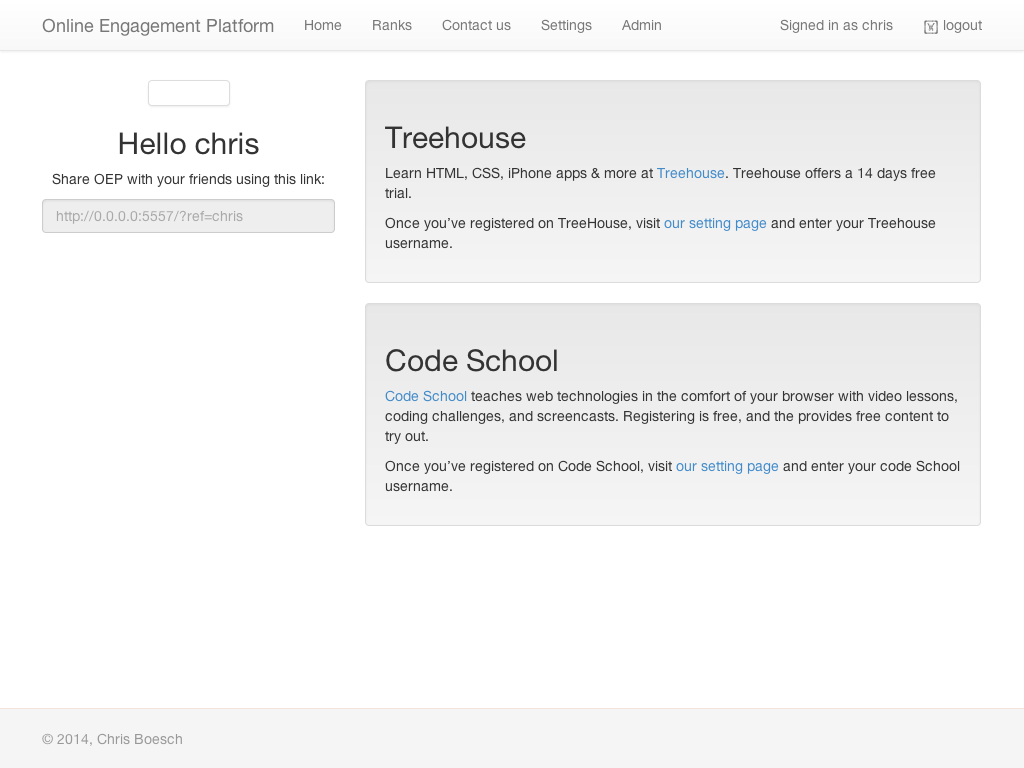
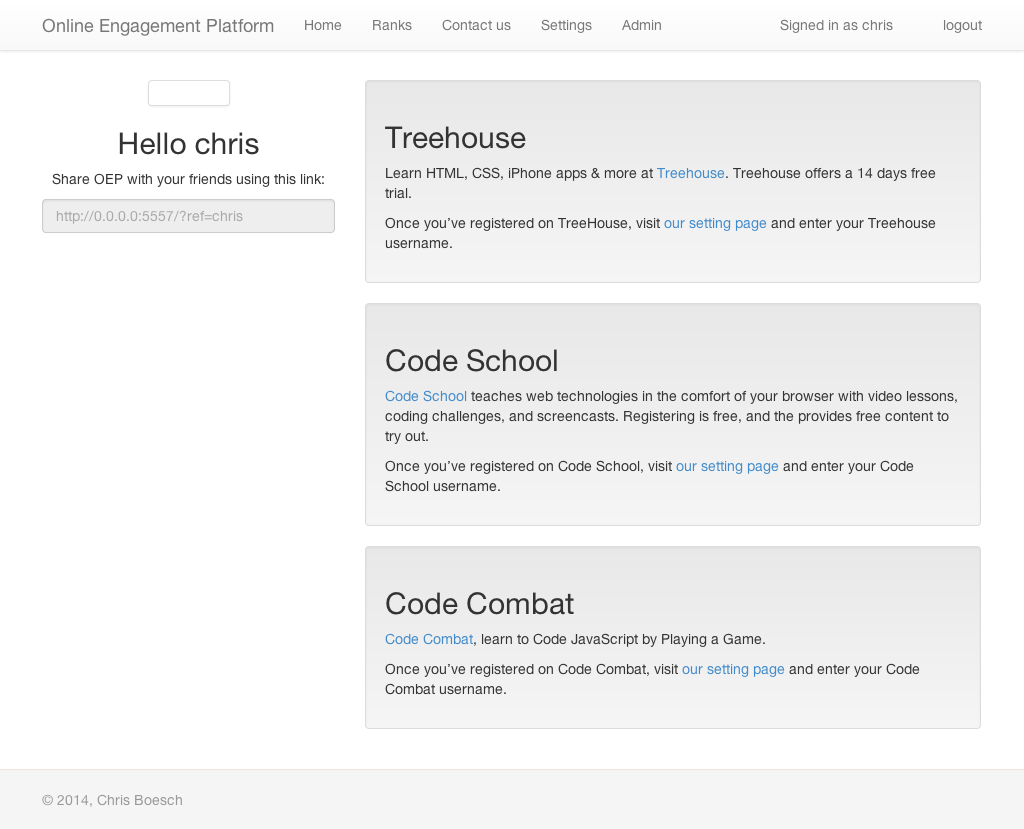
Add code combat points to profile page

diff --git a/app/userdetails/userdetails-user.html b/app/userdetails/userdetails-user.html
@@ -35,11 +35,18 @@
         >
         </oep-code-school-report-card>
 
+        <oep-code-combat-report-card
+            oep-badges="ctrl.profile.services.codeCombat"
+            oep-is-current-user="ctrl.profile.isCurrentUser"
+        >
+        </oep-code-combat-report-card>
 
-        <p class="well" ng-if="!ctrl.profile.isCurrentUser &amp;&amp; !ctrl.profile.services.treeHouse.id &amp;&amp; !ctrl.profile.services.codeSchool.id">
+
+        <p class="well" ng-if="!ctrl.profile.isCurrentUser &amp;&amp; !ctrl.profile.services.treeHouse.id &amp;&amp; !ctrl.profile.services.codeSchool.id &amp;&amp; !ctrl.profile.services.codeCombat.id">
             {{ctrl.profile.name}} is not yet registered at
-            <a href="http://www.teamtreehouse.com/signup_code/singapore">Treehouse</a>
-            or <a href="https://www.codeschool.com/">Code School</a>.
+            <a href="http://www.teamtreehouse.com/signup_code/singapore">Treehouse</a>,
+            <a href="https://www.codeschool.com/">Code School</a> or
+            <a href="http://codecombat.com/">Code Combat</a>.
         </p>
 
 
@@ -76,7 +83,23 @@
             <p>
                 Once you’ve registered on Code School, visit
                 <a href="#/edit" class="edit-link">our setting page</a>
-                and enter your code School username.
+                and enter your Code School username.
+            </p>
+        </div>
+
+        <div
+            id="register-codecombat" class="well clearfix"
+            ng-if="ctrl.profile.isCurrentUser &amp;&amp; !ctrl.profile.services.codeCombat.id"
+        >
+            <h2>Code Combat</h2>
+            <p>
+                <a href="http://codecombat.com/">Code Combat</a>,
+                learn to Code JavaScript by Playing a Game.
+            </p>
+            <p>
+                Once you’ve registered on Code Combat, visit
+                <a href="#/edit" class="edit-link">our setting page</a>
+                and enter your Code Combat username.
             </p>
         </div>
     </div>

diff --git a/app/components/card/card-directive.js b/app/components/card/card-directive.js
@@ -101,6 +101,23 @@
   ).
 
   /**
+   * oepCodeCombatReportCard - Directive displaying a user code combat points
+   *
+   */
+  directive('oepCodeCombatReportCard',
+    function() {
+      return {
+        restrict: 'E',
+        templateUrl: 'components/card/card-codecombat.html',
+        scope: {
+          info: '=oepBadges',
+          isCurrentUser: '=oepIsCurrentUser'
+        }
+      };
+    }
+  ).
+
+  /**
    * eopValidTreehouseUsername - Validator a text input (associated to a ngModel).
    *
    * Check that the the ngModel value correspond to a valid Treehouse username.

diff --git a/app/components/card/card-codecombat.html b/app/components/card/card-codecombat.html
@@ -1,0 +1,10 @@
+<div class="well clearfix" ng-if="info">
+    <div class="report-card codecombat">
+        <h1>
+            <span ng-if="isCurrentUser">Your </span>
+            Code Combat Points
+        </h1>
+
+        <p><strong>{{info.points || 0}}</strong> points</p>
+    </div>
+</div>
